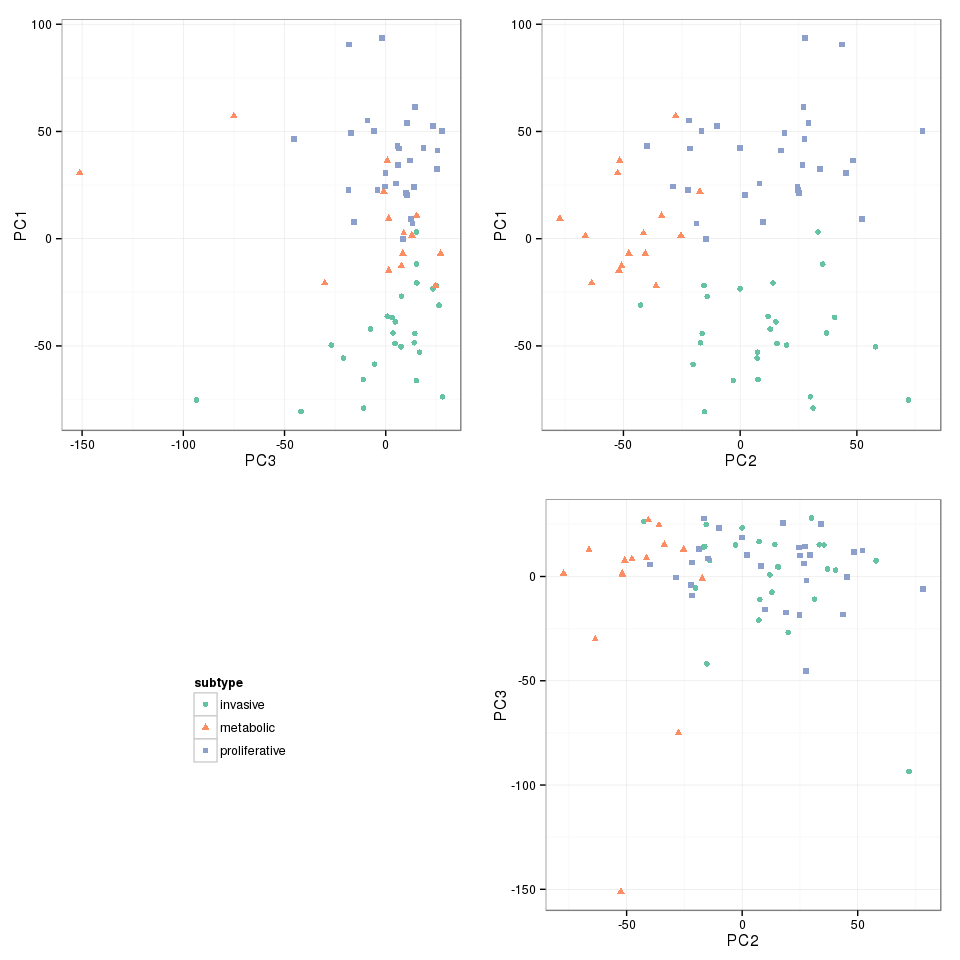
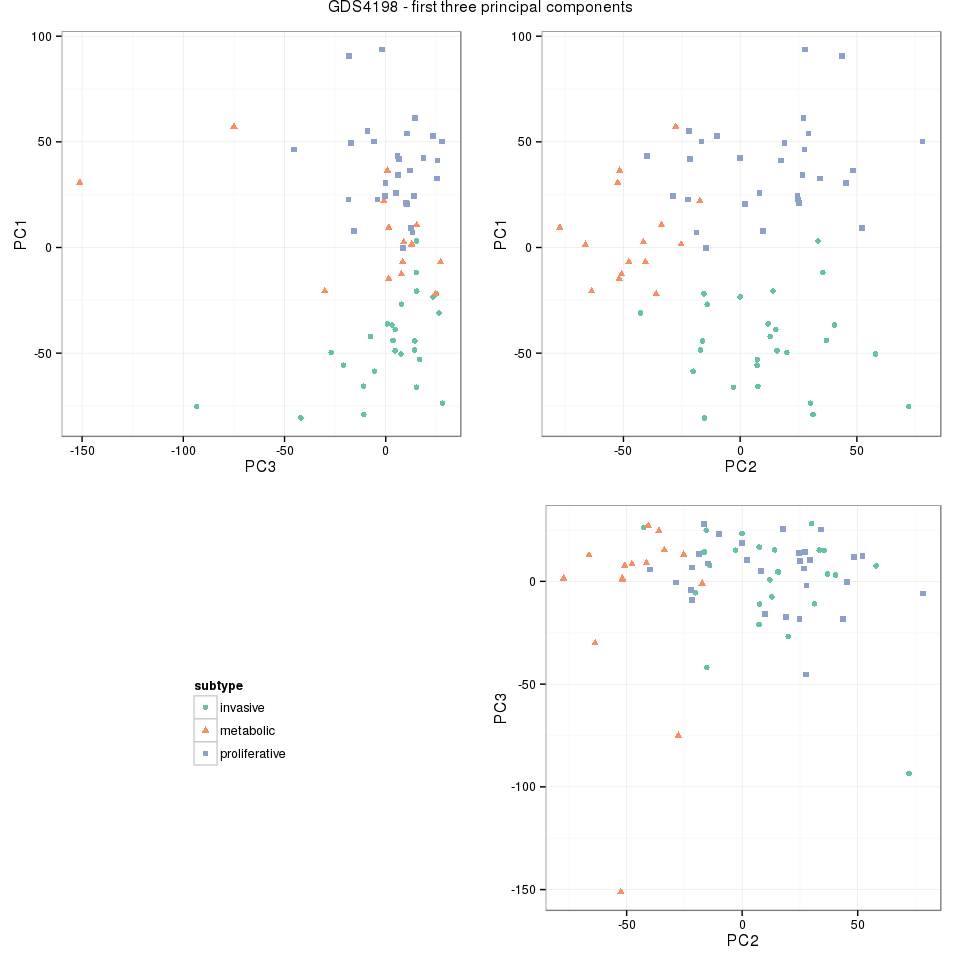
Add title to PC plot

diff --git a/pca-som-network-based-clustering-and-hierarchical-clustering/principal-component-analysis.md b/pca-som-network-based-clustering-and-hierarchical-clustering/principal-component-analysis.md
@@ -48,7 +48,7 @@ Extract cooridnates of observations in the principal component space and plot fi
 gds4198_pc_x <- as.data.frame(gds4198_pc$x)
 gds4198_pc_x$subtype <- gds4198$subtypes
 
-plot_pc(x = gds4198_pc_x)
+plot_pc(x=gds4198_pc_x, main='GDS4198 - first three principal components')
 ```
 
 ![](principal-component-analysis_files/figure-html/unnamed-chunk-4-1.png) 
